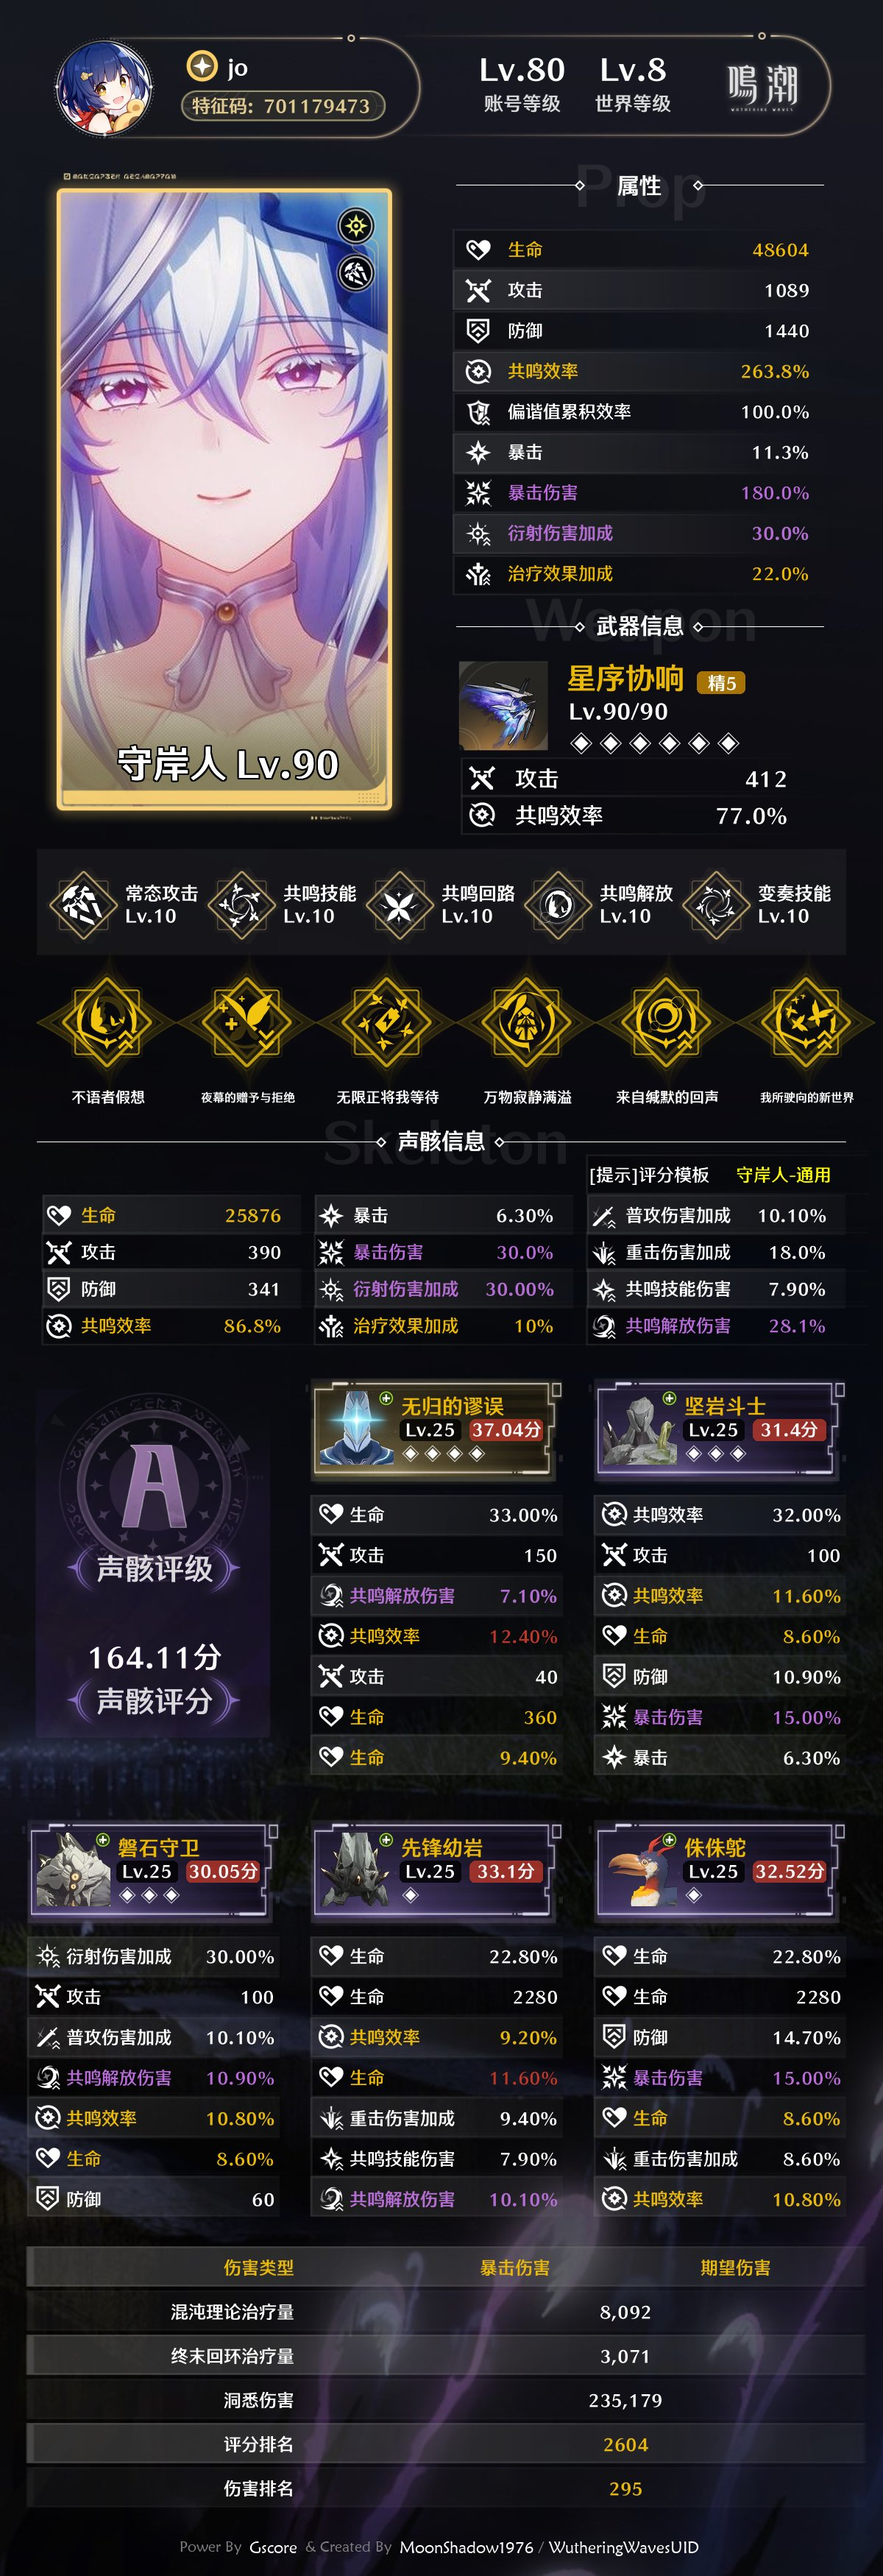
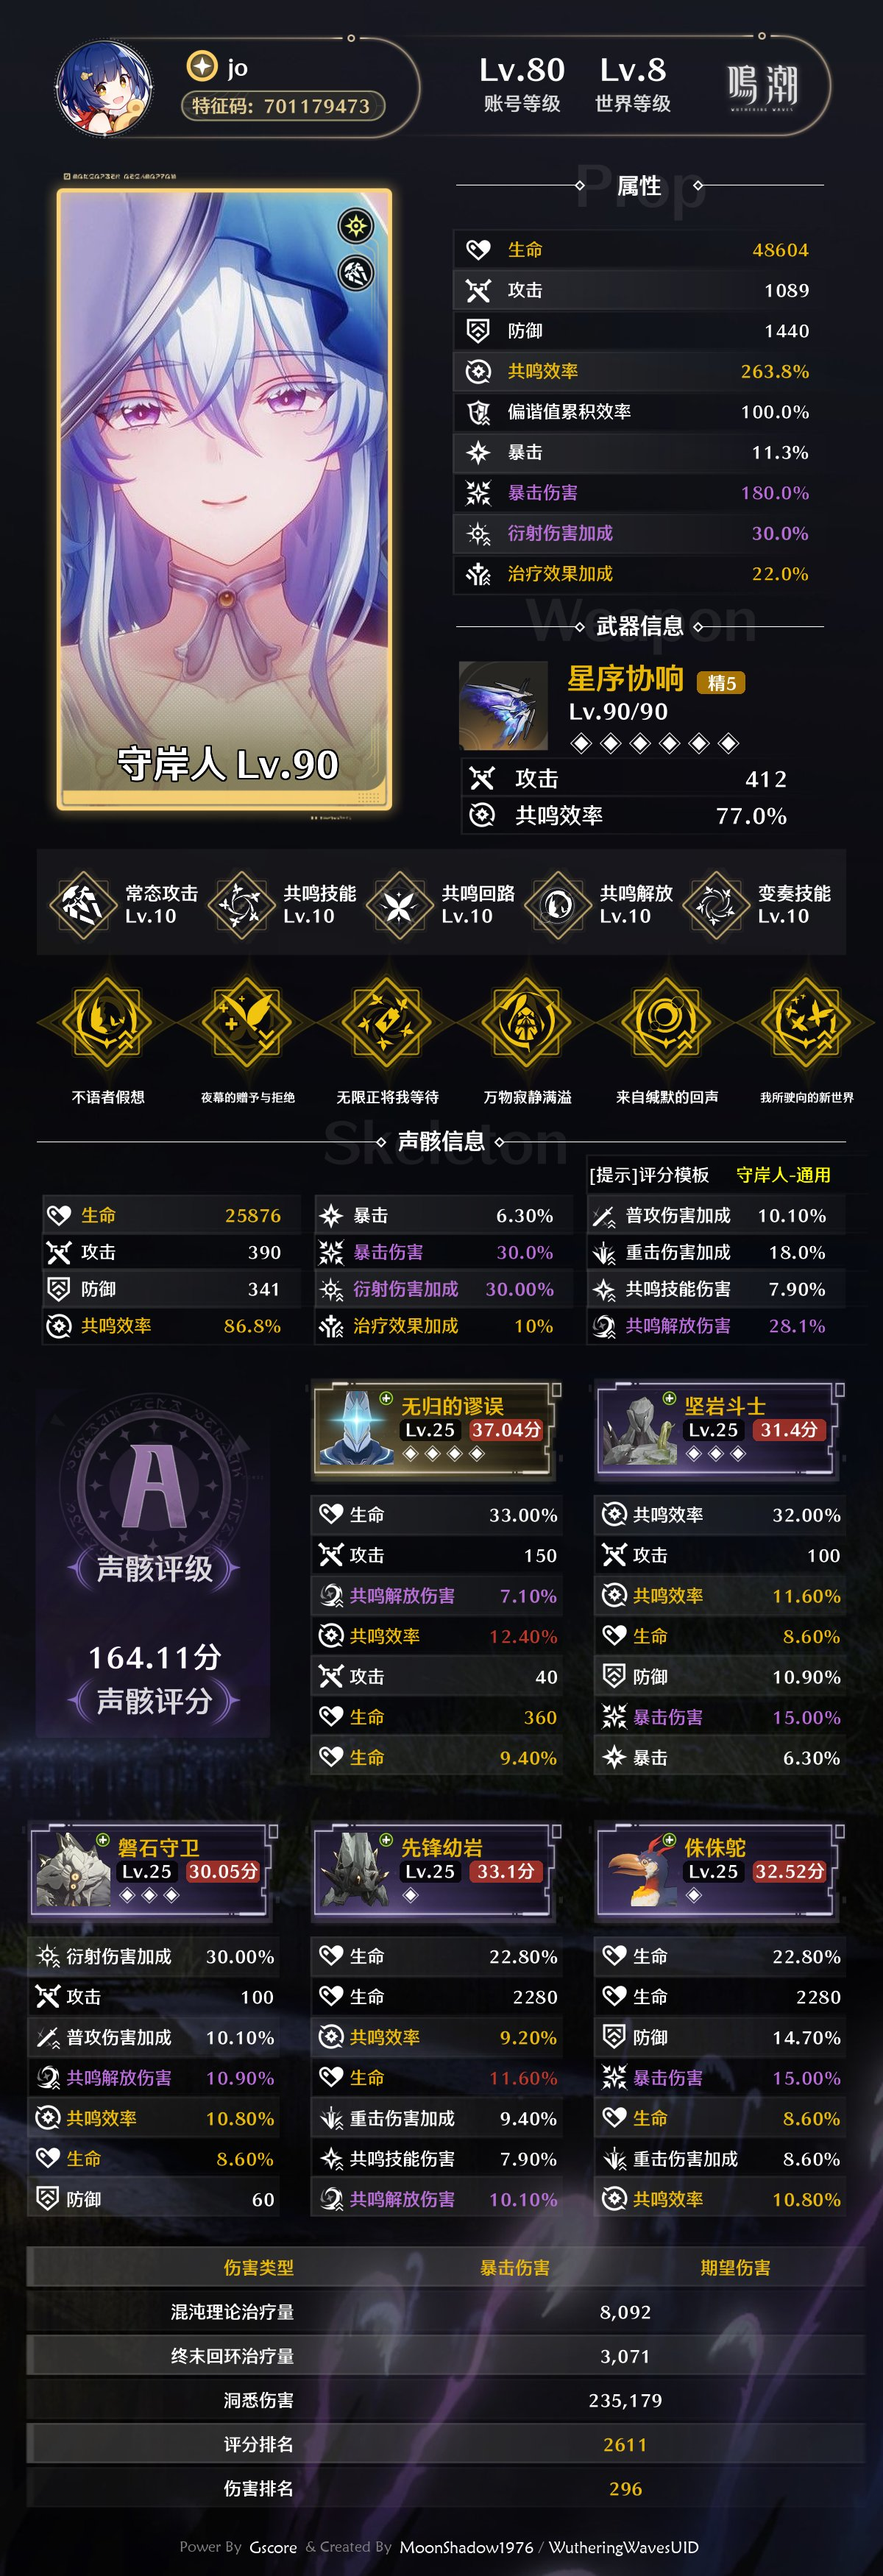
feat: 图集每日投稿上限与示例面板图更新
每人每天最多 20 次投稿（UTC+9 自然日结算）；同步更新指令手册中的守岸人面板示例图。

Changed region(s): [[0.0617, 0.0623, 0.4625, 0.3114], [0.7092, 0.9343, 0.74, 0.9654]]

diff --git a/discord_bot/gallery/app/submissions.py b/discord_bot/gallery/app/submissions.py
@@ -6,15 +6,16 @@ import io
 import json
 import re
 import secrets
-from datetime import datetime, timezone
+from datetime import datetime, timedelta, timezone
 from pathlib import Path
 from typing import Any
 from urllib.parse import urlparse
+from zoneinfo import ZoneInfo
 
 from PIL import Image
 
 from . import catalog
-from .config import PENDING_DIR, PUBLISHED_DIR
+from .config import DAILY_SUBMIT_LIMIT, PENDING_DIR, PUBLISHED_DIR
 
 REJECT_TAGS = [
     "角色辨识度不够",
@@ -27,6 +28,7 @@ REJECT_TAGS = [
 ]
 
 _META = "meta.json"
+_TZ_UTC9 = ZoneInfo("Asia/Tokyo")
 
 STD_LUMINANCE_QUANT_TBL = [
     16, 11, 10, 16, 24, 40, 51, 61,
@@ -112,6 +114,47 @@ def _utcnow() -> str:
     return datetime.now(timezone.utc).replace(microsecond=0).isoformat()
 
 
+def _parse_iso_dt(raw: str | None) -> datetime | None:
+    if not raw:
+        return None
+    try:
+        dt = datetime.fromisoformat(str(raw).replace("Z", "+00:00"))
+    except ValueError:
+        return None
+    if dt.tzinfo is None:
+        dt = dt.replace(tzinfo=timezone.utc)
+    return dt
+
+
+def _utc9_day_range_utc(now: datetime | None = None) -> tuple[datetime, datetime]:
+    """当前 UTC+9 自然日的 [start, end) 对应 UTC 时刻。"""
+    now = now or datetime.now(timezone.utc)
+    local = now.astimezone(_TZ_UTC9)
+    start_local = local.replace(hour=0, minute=0, second=0, microsecond=0)
+    end_local = start_local + timedelta(days=1)
+    return start_local.astimezone(timezone.utc), end_local.astimezone(timezone.utc)
+
+
+def count_submissions_today(submitter_id: str) -> int:
+    """统计该用户在本 UTC+9 自然日内已创建的投稿数（含待审/通过/驳回）。"""
+    if not submitter_id or not PENDING_DIR.is_dir():
+        return 0
+    start, end = _utc9_day_range_utc()
+    n = 0
+    for child in PENDING_DIR.iterdir():
+        if not child.is_dir():
+            continue
+        meta = _read_meta(child)
+        if not meta or meta.get("submitter_id") != submitter_id:
+            continue
+        created = _parse_iso_dt(meta.get("created_at"))
+        if created is None:
+            continue
+        if start <= created < end:
+            n += 1
+    return n
+
+
 def validate_orig_url(url: str) -> str:
     raw = (url or "").strip()
     if not raw:
@@ -162,6 +205,9 @@ def create_submission(
     char = catalog.find_char(char_id)
     if not char:
         raise ValueError("角色不存在")
+    used = count_submissions_today(submitter_id)
+    if used >= DAILY_SUBMIT_LIMIT:
+        raise ValueError(f"今日投稿已达上限（{DAILY_SUBMIT_LIMIT} 张），请明天再试")
     url = validate_orig_url(orig_url)
     sub_id = secrets.token_hex(8)
     data = {

diff --git a/discord_bot/gallery/app/config.py b/discord_bot/gallery/app/config.py
@@ -35,6 +35,8 @@ PUBLIC_PREFIX = os.getenv("GALLERY_PUBLIC_PREFIX", "").rstrip("/") or ""
 DEFAULT_SUBMITTER = os.getenv("GALLERY_DEFAULT_SUBMITTER", "jo")
 DEFAULT_REVIEWER = os.getenv("GALLERY_DEFAULT_REVIEWER", "jo")
 ASSET_VERSION = os.getenv("GALLERY_ASSET_VERSION", "38")
+# 每人每日投稿上限；日历日按 UTC+9 结算
+DAILY_SUBMIT_LIMIT = int(os.getenv("GALLERY_DAILY_SUBMIT_LIMIT", "20"))
 
 _DEFAULT_OFFICIAL = Path.home() / "gsuid_core/data/WutheringWavesUID/resource/role_pile"
 OFFICIAL_PILE_DIR = _path("GALLERY_OFFICIAL_PILE_DIR", _DEFAULT_OFFICIAL)
